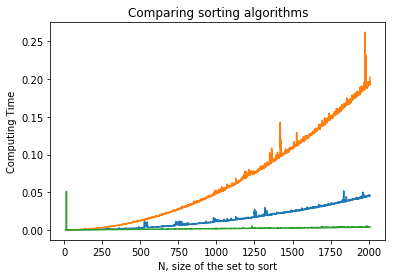
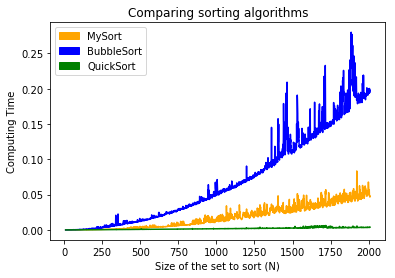
last version HW4

diff --git a/Homeworks/HW4/HW_answers.py b/Homeworks/HW4/HW_answers.py
@@ -1,0 +1,123 @@
+import random
+x = random.sample(xrange(5000), 400)
+
+#1: MySort: In an effort to be creative, I created my own sorting algorithm.
+def mysort(unsorted):
+    sorted_list=[]#empty list
+    sorted_list.append(unsorted.pop())#append last element of the original list to the empty list
+
+    while len(unsorted) > 0:#while there are elements in the original list, do the following:
+        tmp = unsorted.pop()#get the last element in the original list (at this point, the second last element)
+        for a in range(len(sorted_list)):
+            if sorted_list[a] > tmp:#if first element of the new list is greater than the (second-)last item of the original list
+                sorted_list.insert(a, tmp)#then append it to the new list and restart the loop
+                break
+            elif sorted_list[-1-a] < tmp:#if the last element of the new list is lower than the (second-)last item of the original list
+                sorted_list.insert(len(sorted_list)-a, tmp)#then,  insert it at the beginning of the new list
+                break
+            else:
+                continue#if the original item is not either lower than the first or greater than the last, then restart but it will now try whether it is lower than the second or the second-last item in the new list
+    return sorted_list#do this until the element finds its place in the list
+
+mysort(x)#it works
+
+##2 Bubble Sort
+def bubble_sort(unsorted):
+	k = len(unsorted) - 1
+	for i in xrange(k):
+		for j in xrange(k, i, -1): # loop backword from k to i 
+			if unsorted[j - 1] > unsorted[j]: # if the jth element is smaller than its left-side element, replace
+				temp = unsorted[j]
+				unsorted[j] = unsorted[j - 1]
+				unsorted[j - 1] = temp
+	return unsorted
+
+x = random.sample(xrange(5000), 400)
+
+bubble_sort(x)
+
+#3 Quick Sort
+def quick_sort(x):
+    if len(x) < 2:
+        return x
+    pivot = x.pop(len(x)/2) # determine the pivot element
+    less = [] # list of elements smaller than the pivot
+    greater = [] # list of elements greater than the pivot
+    for i in x:
+        if i < pivot + 1: # if i is smaller than the pivot value, add to the smaller list
+            less.append(i)
+        else:
+            greater.append(i) # if i is greater than the pivot value, append to the greater list
+    return quick_sort(less) + [pivot] + quick_sort(greater) # combine 2 list and the pivot
+
+x = random.sample(xrange(5000), 400)
+
+quick_sort(x)
+
+# Graphing
+import csv
+import time
+import random
+
+sumtime0 = []
+list0 = []
+num_items0 = []
+for n in range(10, 2010): # range of the length of the list 0-2000
+	list0.append(random.sample(xrange(100000), n))# generate random values within the list
+	num_items0.append(n)
+
+for i in range(len(list0)):
+    begin = time.clock() # start clock
+    mysort(list0[i])
+    end = time.clock() # end clock
+    sumtime0.append(end - begin) # how long it takes from start to end
+
+len(num_items0)
+
+sumtime = []
+list1 = []
+num_items = []
+for n in range(10, 2010): # range of the length of the list 0-2000
+	list1.append(random.sample(xrange(100000), n))# generate random values within the list
+
+for i in range(len(list1)):
+    begin = time.clock() # start clock
+    bubble_sort(list1[i])
+    end = time.clock() # end clock
+    sumtime.append(end - begin) # how long it takes from start to end
+
+
+sumtime2 = []
+list2 = []
+num_items2 = []
+for n in range(10, 2010): # range of the length of the list 0-2000
+	list2.append(random.sample(xrange(100000), n))# generate random values within the list
+
+for i in range(len(list2)):
+    begin = time.clock() # start clock
+    quick_sort(list2[i])
+    end = time.clock() # end clock
+    sumtime2.append(end - begin) # how long it takes from start to end
+
+
+import numpy as np
+from IPython.html.widgets import interact
+import matplotlib.pyplot as plt
+import matplotlib.patches as mpatches
+
+fig = plt.figure()
+ax = plt.axes()
+
+plt.title("Comparing sorting algorithms")
+plt.xlabel("Size of the set to sort (N)")
+plt.ylabel("Computing Time")
+plt.plot(num_items0, sumtime0, color='orange')
+plt.plot(num_items0, sumtime, color='blue')
+plt.plot(num_items0, sumtime2, color='green')
+or_patch = mpatches.Patch(color='orange', label='MySort')
+blue_patch = mpatches.Patch(color='blue', label='BubbleSort')
+green_patch = mpatches.Patch(color='green', label='QuickSort')
+plt.legend(handles=[or_patch, blue_patch, green_patch])
+
+plt.show()
+
